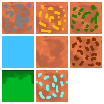
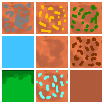
Added in correct blank tile to world

Changed region(s): [[0.6635, 0.6635, 0.9808, 0.9808]]

diff --git a/src/Level.ts b/src/Level.ts
@@ -1,30 +1,33 @@
-module Wallaby {
+module Wallaby {
 
     export class Level extends Phaser.State {
 
-        background: Phaser.Sprite;
-        music: Phaser.Sound;
         player: Wallaby.Player;
         gasStation: Wallaby.GasStation;
+        vendor: Wallaby.Vendor;
+
+        tile: Phaser.Tile;
         map: Phaser.Tilemap;
-        sky: Phaser.TilemapLayer;
         ground: Phaser.TilemapLayer;
+
+        txt: Phaser.Group;  //Contains all text denoted below.
+
         fuelText: Phaser.Text;
         scoreText: Phaser.Text;
         drillText: Phaser.Text;
         fpsText: Phaser.Text;
-        txt: Phaser.Group;
-        timeCheck: number;
-        vendor: Wallaby.Vendor;
-        tile: Phaser.Tile;
-
+      
+        timeCheck: number;  //Used to determine how long the mouse should be pressed
+        
         create() {       
             this.game.physics.startSystem(Phaser.Physics.ARCADE);
+           
             this.game.physics.arcade.gravity.y = 500;
             this.map = this.add.tilemap('level');
             this.map.addTilesetImage('Tiles');
             this.map.setCollisionBetween(1, 3);
             this.map.setCollisionBetween(5, 8);
+
             this.ground = this.map.createLayer('Ground');
             this.ground.resizeWorld();   
 
@@ -32,7 +35,6 @@
             this.gasStation = new GasStation(this.game, 128, 160);
             this.vendor = new Vendor(this.game,this.player, 256, 192);
             this.player.bringToTop();
-
 
             //Fuel Text
             this.txt = this.game.add.group();
@@ -54,15 +56,12 @@
             this.populateWorld();
         }
 
-      
-    
         update() {
             var iterations = 1;
 
             this.game.physics.arcade.collide(this.player, this.ground);
             this.player.body.velocity.x = 0;
-            this.player.update();
-            
+            this.player.update();    
 
             if (this.game.input.mousePointer.isDown && this.game.input.mousePointer.duration > 100 * this.player.drillLevel) {
                 if (this.game.input.mousePointer.duration > 100 * this.player.drillLevel && this.game.input.mousePointer.duration < 100 * this.player.drillLevel + 50) {
@@ -85,34 +84,32 @@
                 this.vendor.isVisible(false);
             } 
 
-            this.fuelText.setText("Fuel: "+this.player.fuel.toString()+" / "+this.player.fuelTank.toString());
+            this.fuelText.setText("Fuel: "+Math.floor(this.player.fuel).toString()+" / "+this.player.fuelTank.toString());
             this.scoreText.setText("Cash: $"+this.player.cash.toString());
             this.fpsText.setText("FPS: " + this.game.time.fps.toString());
 
             this.drillText.setText("Drill: " + this.player.drillLevel.toString());
         }
 
-            //This is the primary method to add in a "Blank"(Currently sky) tile at a 
+        //This is the primary method to add in a "Blank"(Currently sky) tile at a 
         //location located directly below the player
         removeTile(x: number, y:number) {
-                x = Math.floor(x/32);
-                y = Math.floor(y/32);
+            x = Math.floor(x/32);
+            y = Math.floor(y/32);
 
-                var tileIndex = this.map.getTile(x,y).index;
-                this.tile = this.map.getTile(x,y);
-            //Prevents rapid block removal\
-            var test = this.tile.collideUp;
-            if (this.player.fuel>0) {
-                console.log("X: "+x.toString());
-                console.log("Y: "+y.toString());
+            var tileIndex = this.map.getTile(x,y).index;
+            this.tile = this.map.getTile(x,y);
+            //Prevents rapid block removal
+
+
+            if (this.player.fuel>0 &&(this.tile.index != 9 && this.tile.index != 4)) {
+                console.log(this.tile.index);
                 this.player.cash = this.player.cash + this.getTileValue(tileIndex);
-                this.player.fuel -= 5;
-                this.map.putTile(4,x,y);
+                this.player.fuel-=2;
+                this.map.putTile(9,x,y);
+                
             }
         }
-
-
- 
 
         populateWorld() {
             var chance = 0;
@@ -170,12 +167,11 @@
 
         //Handles neat tweening effect when blocks get destroyed
         displayTotal(total: number) {
-            var i = this.game.add.text(this.player.x-10 , this.player.y - 35,"+"+total.toString(), { fontSize: '12px', fill: 'white', stroke: "black", strokeThickness: 5 });
+            var i = this.game.add.text(this.player.x-10 , this.player.y - 35,"+"+total.toString(), 
+                        { fontSize: '12px', fill: 'white', stroke: "black", strokeThickness: 5 });
             i.alpha = 1;
             this.game.add.tween(i).to({ alpha: 0 }, 500, Phaser.Easing.Linear.None, true, 0, 0, false);
             this.game.add.tween(i).to({ x: this.player.x - 200, y: this.player.y - 250 }, 1000, Phaser.Easing.Linear.None, true, 0, 0, false);
-
         }
-
     }
 } 

diff --git a/src/game.js b/src/game.js
@@ -66,8 +66,8 @@ var Wallaby;
             this.game.add.existing(this);
         }
         GasStation.prototype.fill = function (player) {
-            player.fuel += 5;
-            player.cash -= 2;
+            player.fuel += 1;
+            player.cash -= 1;
         };
         return GasStation;
     })(Phaser.Sprite);
@@ -82,11 +82,13 @@ var Wallaby;
         }
         Level.prototype.create = function () {
             this.game.physics.startSystem(Phaser.Physics.ARCADE);
+
             this.game.physics.arcade.gravity.y = 500;
             this.map = this.add.tilemap('level');
             this.map.addTilesetImage('Tiles');
             this.map.setCollisionBetween(1, 3);
             this.map.setCollisionBetween(5, 8);
+
             this.ground = this.map.createLayer('Ground');
             this.ground.resizeWorld();
 
@@ -137,7 +139,7 @@ var Wallaby;
                 this.vendor.isVisible(false);
             }
 
-            this.fuelText.setText("Fuel: " + this.player.fuel.toString() + " / " + this.player.fuelTank.toString());
+            this.fuelText.setText("Fuel: " + Math.floor(this.player.fuel).toString() + " / " + this.player.fuelTank.toString());
             this.scoreText.setText("Cash: $" + this.player.cash.toString());
             this.fpsText.setText("FPS: " + this.game.time.fps.toString());
 
@@ -153,14 +155,11 @@ var Wallaby;
             var tileIndex = this.map.getTile(x, y).index;
             this.tile = this.map.getTile(x, y);
 
-            //Prevents rapid block removal\
-            var test = this.tile.collideUp;
-            if (this.player.fuel > 0) {
-                console.log("X: " + x.toString());
-                console.log("Y: " + y.toString());
+            if (this.player.fuel > 0 && (this.tile.index != 9 && this.tile.index != 4)) {
+                console.log(this.tile.index);
                 this.player.cash = this.player.cash + this.getTileValue(tileIndex);
-                this.player.fuel -= 5;
-                this.map.putTile(4, x, y);
+                this.player.fuel -= 2;
+                this.map.putTile(9, x, y);
             }
         };
 
@@ -256,11 +255,11 @@ var Wallaby;
         __extends(Player, _super);
         function Player(game, x, y) {
             _super.call(this, game, x, y, 'player', 0);
-            this.fuel = 250;
-            this.fuelTank = 250;
+            this.fuel = 50;
+            this.fuelTank = 50;
             this.score = 0;
             this.cash = 0;
-            this.drillLevel = 2;
+            this.drillLevel = 10;
 
             this.anchor.setTo(0.5, 0);
 
@@ -276,7 +275,7 @@ var Wallaby;
         Player.prototype.update = function () {
             if (this.game.input.keyboard.isDown(Phaser.Keyboard.SPACEBAR) && this.fuel > 0) {
                 this.body.velocity.y = -250;
-                this.fuel--;
+                this.fuel -= .1;
             }
             if (this.game.input.keyboard.isDown(Phaser.Keyboard.LEFT) || this.game.input.keyboard.isDown(Phaser.Keyboard.A)) {
                 this.body.velocity.x = -150;
@@ -379,12 +378,12 @@ var Wallaby;
             this.game.add.existing(this);
         }
         Vendor.prototype.drillButtonClick = function (player) {
-            if (player.cash >= this.multiplier * this.drillCost) {
+            if (player.cash >= this.multiplier * this.drillCost && player.drillLevel >= 3) {
                 this.subAmount = Math.floor(this.multiplier * this.drillCost);
                 player.cash -= this.subAmount;
                 this.drillCost = Math.floor(this.multiplier * this.drillCost);
                 this.drill_upgrades += 1;
-                player.drillLevel += 1;
+                player.drillLevel -= 1;
                 this.subtractEffect(this.subAmount);
             }
 

diff --git a/src/Vendor.ts b/src/Vendor.ts
@@ -1,4 +1,4 @@
-/// <reference path="reference.ts" />
+/// <reference path="reference.ts" />
 module Wallaby {
 
     export class Vendor extends Phaser.Sprite {
@@ -36,7 +36,7 @@ module Wallaby {
             this.drillIcon.fixedToCamera = true;
             this.game.add.existing(this.drillIcon);
 
-             this.fuelBuyButton = new Phaser.Button(this.game, 585, 355, 'buy');
+            this.fuelBuyButton = new Phaser.Button(this.game, 585, 355, 'buy');
             this.fuelBuyButton.visible = false;
             this.fuelBuyButton.fixedToCamera = true;
             this.game.add.existing(this.fuelBuyButton);
@@ -48,12 +48,12 @@ module Wallaby {
         }
 
         drillButtonClick(player: Wallaby.Player): Function {
-            if (player.cash >= this.multiplier * this.drillCost) {
+            if (player.cash >= this.multiplier * this.drillCost && player.drillLevel>=3) {
                 this.subAmount = Math.floor(this.multiplier * this.drillCost);
                 player.cash -= this.subAmount;
                 this.drillCost  = Math.floor(this.multiplier*this.drillCost);
                 this.drill_upgrades += 1;
-                player.drillLevel += 1
+                player.drillLevel -= 1
                 this.subtractEffect(this.subAmount);
                 }
 
@@ -93,6 +93,8 @@ module Wallaby {
             this.game.add.tween(i).to({ alpha: 0 }, 500, Phaser.Easing.Linear.None, true, 0, 0, false);
             this.game.add.tween(i).to({ x: this.game.world.centerX - 305, y: 50 }, 1000, Phaser.Easing.Linear.None, true, 0, 0, false);
         }
+
+
     }
 
 }  

diff --git a/src/Player.ts b/src/Player.ts
@@ -2,11 +2,11 @@
 
     export class Player extends Phaser.Sprite {
 
-        fuel: number = 250;
-        fuelTank: number = 250;
+        fuel: number = 50;
+        fuelTank: number = 50;
         score: number = 0;
         cash: number = 0;
-        drillLevel: number = 2;
+        drillLevel: number = 10;
         constructor(game: Phaser.Game, x: number, y: number) {
 
             super(game, x, y, 'player', 0);
@@ -28,7 +28,7 @@
            
             if (this.game.input.keyboard.isDown(Phaser.Keyboard.SPACEBAR) && this.fuel > 0) {
                 this.body.velocity.y = -250;
-                this.fuel--;
+                this.fuel-= .1;
             }
             if (this.game.input.keyboard.isDown(Phaser.Keyboard.LEFT) || this.game.input.keyboard.isDown(Phaser.Keyboard.A)) {
                 this.body.velocity.x = -150;

diff --git a/src/GasStation.ts b/src/GasStation.ts
@@ -18,8 +18,8 @@
         }
 
         fill(player: Wallaby.Player){
-                player.fuel += 5;
-                player.cash -= 2;
+                player.fuel += 1;
+                player.cash -= 1;
         }
     }
 } 
